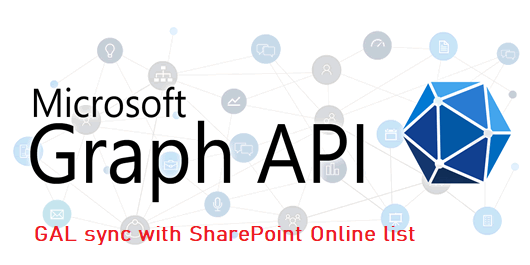
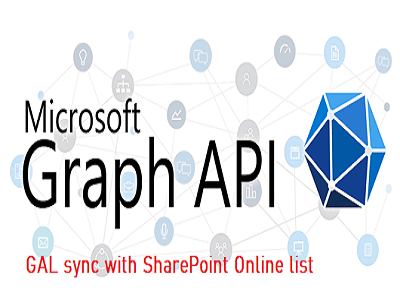
2022-06-09-M365-Microsoft-Graph-GAL-sync-SPO-List

diff --git a/_posts/2022-06-09-M365-Microsoft-Graph-GAL-sync-SPO-List.md b/_posts/2022-06-09-M365-Microsoft-Graph-GAL-sync-SPO-List.md
@@ -5,9 +5,8 @@ date: 2022-06-09
 excerpt: "Microsoft 365 Graph synchronization GAL to SharePoint Online List. "
 toc: true
 header:
-  overlay_image: /assets/images/teaser/MicrosoftGraphAPI-GAL-Sync-to-SPO.png
   teaser: /assets/images/teaser/MicrosoftGraphAPI-GAL-Sync-to-SPO.png
-  og_image: /assets/images/teaser/MicrosoftGraphAPI-GAL-Sync-to-SPO.png
+  og_image: /assets/images/teaser/MicrosoftGraphAPI-GAL-Sync-to-SPO_og.png
 categories:
  - Microsoft365
  - PowerShell
